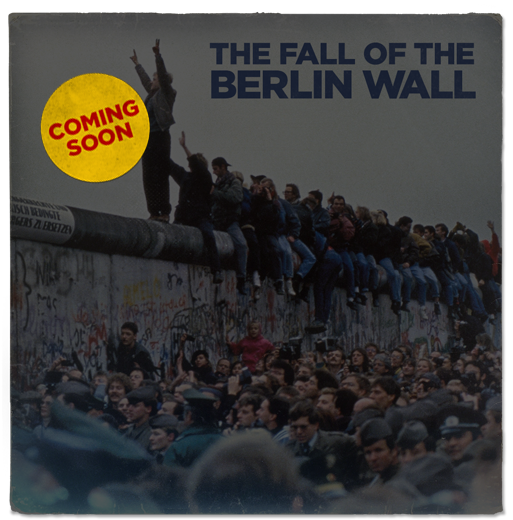
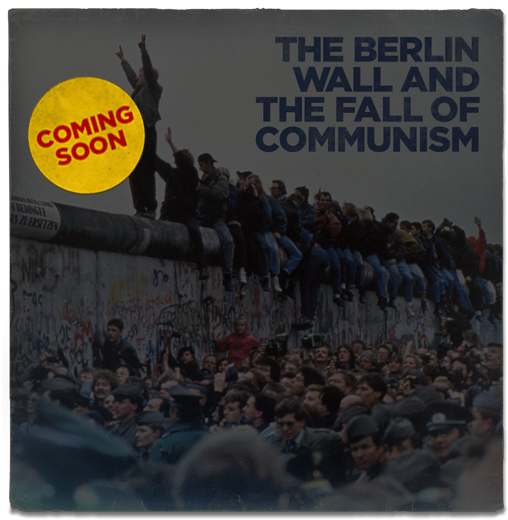
Applied the mobile adjustments we made for episode 4 but not releasing since the episode has been preempted.  Added Audio to the transition video but made it so when user scrolls off the audio goes off.  Also changed the title names of some of the episodes.

diff --git a/architecture/index.html b/architecture/index.html
@@ -178,10 +178,10 @@
 			                  <div><h3 className="uppercase">September 11th.</h3><p> Following the terrorist attacks on September 11th, songs like Billy Joel’s “New York State of Mind” took on a new and heightened meaning and politically charged country music took center stage. </p></div>
 			                  <div><h3 className="uppercase">Kent State &amp; The Vietnam War </h3><p>Following the killings of four Kent State University students during anti-Vietnam War protests, politically driven songs from Neil Young, Buffalo Springfield and others became popular. </p></div>
 			                  <div><h3 className="uppercase">Hurricane Katrina</h3><p>Following Hurricane Katrina, international artists from U2 to Kanye West joined New Orleans musicians in benefit concerts to help ensure the city’s rich traditions survived.</p></div>
-			                  <div><h3 className="uppercase">The Fall of the Berlin Wall</h3><p>The episode charts the course of the Cold War in Berlin through music revealing how it helped to sow the seeds of rebellion. </p></div>
-			                  <div><h3 className="uppercase">The Moon Landing</h3><p>Neil Armstrong and Buzz Aldrin’s moonwalk inspired musicians from David Bowie and the Byrds to Parliament-Funkadelic and Sun Ra to imagine a cosmic future for mankind. </p></div>
+			                  <div><h3 className="uppercase">THE BERLIN WALL &amp; THE FALL OF COMMUNISM</h3><p>The episode charts the course of the Cold War in Berlin through music revealing how it helped to sow the seeds of rebellion. </p></div>
+			                  <div><h3 className="uppercase">SPACE RACE</h3><p>Neil Armstrong and Buzz Aldrin’s moonwalk inspired musicians from David Bowie and the Byrds to Parliament-Funkadelic and Sun Ra to imagine a cosmic future for mankind. </p></div>
 			                  <div><h3 className="uppercase">Battle of the Sexes</h3><p>Billie Jean King’s win against Bobby Riggs in their famous tennis match was a galvanizing moment for the women’s movement and ushered in music that delivered messages of female empowerment.</p></div>
-			                  <div><h3 className="uppercase">The Stonewall Riots</h3><p>The episode tracks the beginning of the gay rights movement in America following the riots at Stonewall Inn and how music has played a vital role in celebrating and preaching tolerance of the LGBT community.</p></div>
+			                  <div><h3 className="uppercase">OUT, LOUD &amp; PROUD</h3><p>The episode tracks the beginning of the gay rights movement in America following the riots at Stonewall Inn and how music has played a vital role in celebrating and preaching tolerance of the LGBT community.</p></div>
 			              </div>
 
 			  		</div>
@@ -465,13 +465,6 @@
 		        	window.divResize();
 		        	document.getElementById('CTA').addEventListener("click", introVidPlay, false);
 
-		        	document.getElementById('intro-home').addEventListener("click", closeLC, false);
-
-		        	function closeLC() {
-		        		document.getElementById('intro-home').style.display = "none";
-		        		lightcase.close();
-		        	}
-
 		        	function endIntroVideo(){
 		        		//console.log(me.context.router);
 		        		me.context.router.push('/episodes');
@@ -482,6 +475,13 @@
 						document.getElementById('introVideo').addEventListener('ended',endIntroVideo,false);
 					}
 		      	}
+
+		      	document.getElementById('intro-home').addEventListener("click", closeLC, false);
+
+	        	function closeLC() {
+	        		document.getElementById('intro-home').style.display = "none";
+	        		lightcase.close();
+	        	}
 
 	        }
 	    });
@@ -611,8 +611,8 @@
 						<div className="parallax">
 							<video id="transitionVideo" autoPlay loop preload="auto" height="100%" width="100%"
 				              poster="images/episode1/E1_PhotoTransition.jpg">
-				                <source src="video/ep1/Photo_MLK.mp4" type='video/mp4' />
-				                <source src="video/ep1/Photo_MLK.WebM" type='video/webm' />
+				                <source src="video/ep1/MLK_W_SFX.mp4" type='video/mp4' />
+				                <source src="video/ep1/MLK_W_SFX.WebM" type='video/webm' />
 				             </video>
 						</div>
 
@@ -900,9 +900,17 @@
 
 	      		ga('set', 'page', '/episode-1.html');
 	      		ga('send', 'pageview');
+
+	      		document.body.scrollTop = 0;
+
 	      		
 	      		$( window ).bind("resize", function() {
 					divResize();
+				});
+
+				// Capture scroll events
+				$(window).scroll(function(){
+				    checkVideo();
 				});
 
 
@@ -948,6 +956,17 @@
 
 	      		}
 
+	      		function checkVideo() {
+	      			var $elem = $('#transitionVideo');
+	      			var videoAudio = $("#transitionVideo");
+	      			if (window.isElementInViewport($elem)) {
+				        
+				        videoAudio[0].play(); 
+				    } else {
+				    	videoAudio[0].pause();
+				    }
+	      		}
+
 	      		$(".footer_img").load(function() {
 	      			// initial call
 	      			resizeFooter();
@@ -958,11 +977,9 @@
 	      		$( window ).bind("resize", function(){
 				     resizeFooter();
 				     moveCTA();
-
 				});
 
 				var count = 0;
-
 
 				this.$node = $(this.refs.lightcase);
 				this.$node.lightcase({
@@ -987,8 +1004,8 @@
 						<div className="parallax">
 							<video id="transitionVideo" autoPlay loop preload="auto" height="100%" width="100%"
 				              poster="images/episode2/E2_PhotoTransition.jpg">
-				                <source src="video/ep2/Photo_911.mp4" type='video/mp4' />
-				                <source src="video/ep2/Photo_911.WebM" type='video/webm' />
+				                <source src="video/ep2/911wsfx.mp4" type='video/mp4' />
+				                <source src="video/ep2/911wsfx.WebM" type='video/webm' />
 				             </video>
 						</div>
 
@@ -1304,6 +1321,11 @@
 					divResize();
 				});
 
+				// Capture scroll events
+				$(window).scroll(function(){
+				    checkVideo();
+				});
+
 	      		if (isMobile.apple.phone || isMobile.android.phone || isMobile.seven_inch) {
 		      		window.isMob = true;
 		      		var el = document.getElementById('transitionVideo');
@@ -1346,6 +1368,17 @@
 
 	      		}
 
+	      		function checkVideo() {
+	      			var $elem = $('#transitionVideo');
+	      			var videoAudio = $("#transitionVideo");
+	      			if (window.isElementInViewport($elem)) {
+				        
+				        videoAudio[0].play(); 
+				    } else {
+				    	videoAudio[0].pause();
+				    }
+	      		}
+
 	      		$(".footer_img").load(function() {
 	      			// initial call
 	      			resizeFooter();
@@ -1384,8 +1417,8 @@
 						<div className="parallax">
 							<video id="transitionVideo" autoPlay loop preload="auto" height="100%" width="100%"
 				              poster="images/episode3/E3_PhotoTransition.jpg">
-				                <source src="video/ep3/Photo_KENTVIETNAM.mp4" type='video/mp4' />
-				                <source src="video/ep3/Photo_KENTVIETNAM.WebM" type='video/webm' />
+				                <source src="video/ep3/KENT_VIETNAMwsfx.mp4" type='video/mp4' />
+				                <source src="video/ep3/KENT_VIETNAMwsfx.WebM" type='video/webm' />
 				             </video>
 						</div>
 
@@ -1703,6 +1736,11 @@
 					divResize();
 				});
 
+				// Capture scroll events
+				$(window).scroll(function(){
+				    checkVideo();
+				});
+
 	      		if (isMobile.apple.phone || isMobile.android.phone || isMobile.seven_inch) {
 		      		window.isMob = true;
 		      		var el = document.getElementById('transitionVideo');
@@ -1743,6 +1781,17 @@
 	      			$('#home-episodes').css("top", top);
 	      			$('#home-episodes').css("display", "block");
 
+	      		}
+
+	      		function checkVideo() {
+	      			var $elem = $('#transitionVideo');
+	      			var videoAudio = $("#transitionVideo");
+	      			if (window.isElementInViewport($elem)) {
+				        
+				        videoAudio[0].play(); 
+				    } else {
+				    	videoAudio[0].pause();
+				    }
 	      		}
 
 	      		$(".footer_img").load(function() {

diff --git a/architecture/js/custom.js b/architecture/js/custom.js
@@ -47,3 +47,19 @@ function closePlayer() {
 	//$('#apple-player').css("bottom","-506");
 }
 
+
+function isElementInViewport(elem) {
+    var $elem = $(elem);
+
+    // Get the scroll position of the page.
+    var scrollElem = ((navigator.userAgent.toLowerCase().indexOf('webkit') != -1) ? 'body' : 'html');
+    var viewportTop = $(scrollElem).scrollTop();
+    var viewportBottom = viewportTop + $(window).height();
+
+    // Get the position of the element on the page.
+    var elemTop = Math.round( $elem.offset().top );
+    var elemBottom = elemTop + $elem.height();
+
+    return ((elemTop < viewportBottom) && (elemBottom > viewportTop));
+}
+

diff --git a/architecture/css/custom.css b/architecture/css/custom.css
@@ -424,7 +424,7 @@
 		}
 
 		.bw-type .home-extra-note {
-			top: 70%;
+			top: calc(100%-125px);
 		}
 
 		#apple-badge {
@@ -452,6 +452,7 @@
 		.feature-boxes {
 			padding: 0px;
 			width: 50%;
+			float: left;
 		}
 
 		h4 {
